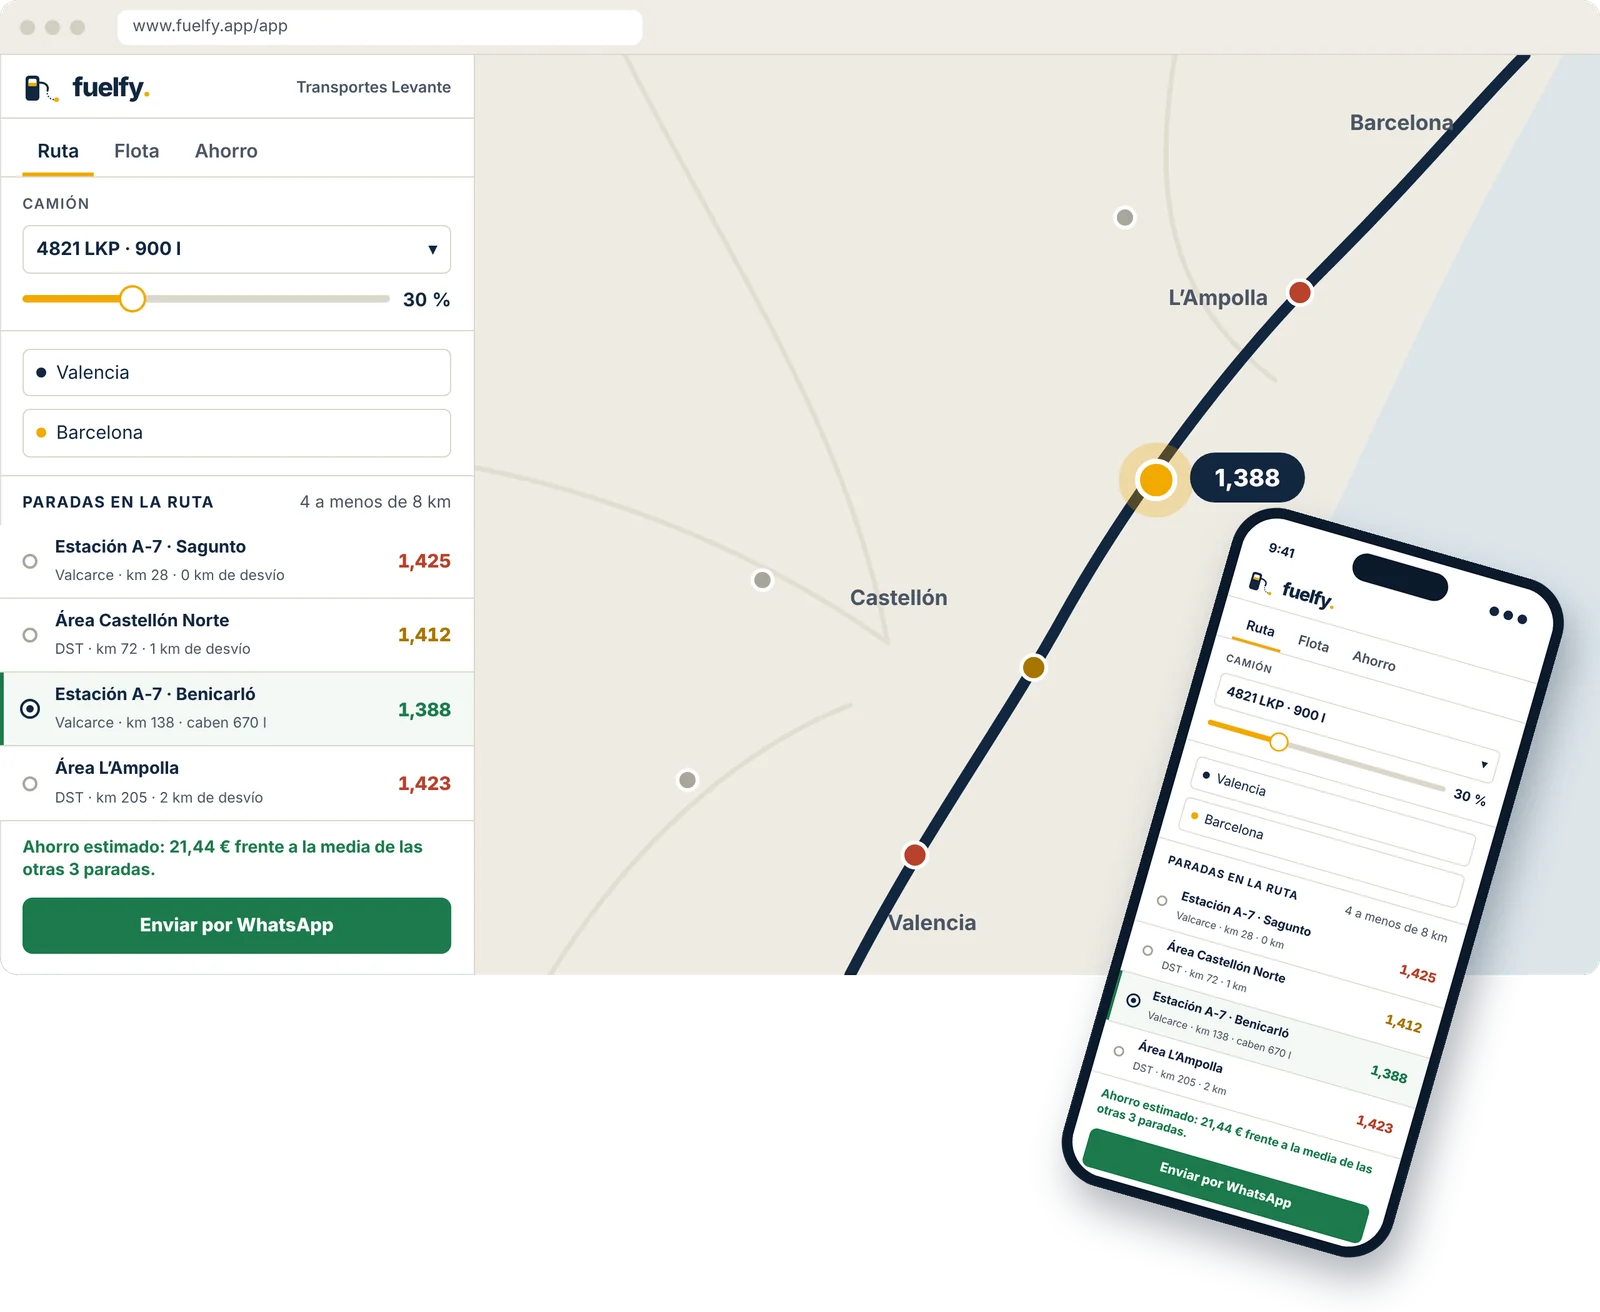
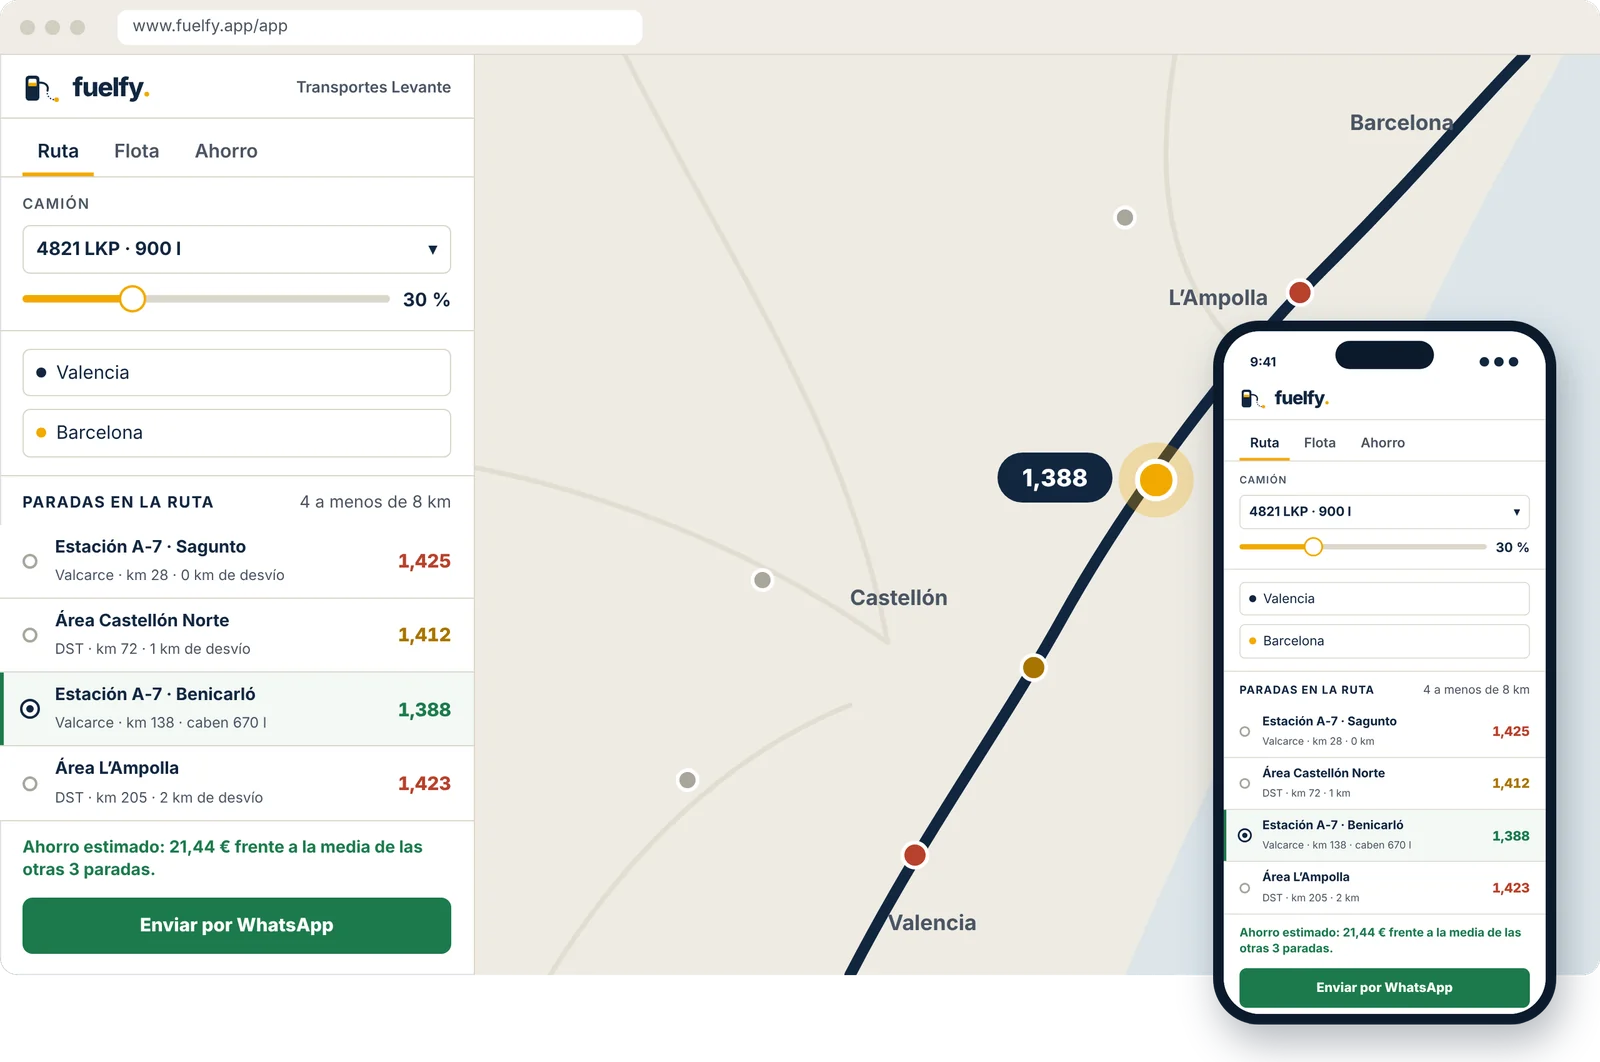
Capturas: precio a la izquierda de la ruta y móvil recto que apenas sobresale
Claude-Session: https://claude.ai/code/session_01NjNeR13o87NmiPvbxe2ikm

diff --git a/docs/index.html b/docs/index.html
@@ -500,7 +500,7 @@ h3 { font-size: 1.45rem; line-height: 1.15; letter-spacing: -.02em; }
         <div class="aparece"><h3>Tus estaciones, a tu manera</h3><p>Desmarca las que no quieras usar y desaparecen del mapa y de las rutas de toda tu empresa.</p>
           <button class="captura" type="button" data-visor aria-label="Ampliar captura del panel de estaciones"><img src="imagenes/web/captura-estaciones.webp" alt="Panel de estaciones de Fuelfy sobre el mapa, con estaciones marcadas y desmarcadas por tarjeta" width="1600" height="975" loading="lazy"></button></div>
         <div class="aparece"><h3>En el ordenador y en el móvil</h3><p>Funciona en el navegador, sin instalar nada. En el móvil puedes añadirla a la pantalla de inicio.</p>
-          <button class="captura sin-marco" type="button" data-visor aria-label="Ampliar captura: la misma ruta en el ordenador y en el móvil"><img src="imagenes/web/captura-escritorio-movil.webp" alt="La misma ruta en Fuelfy en el ordenador y en el móvil" width="1600" height="1312" loading="lazy"></button></div>
+          <button class="captura sin-marco" type="button" data-visor aria-label="Ampliar captura: la misma ruta en el ordenador y en el móvil"><img src="imagenes/web/captura-escritorio-movil.webp" alt="La misma ruta en Fuelfy en el ordenador y en el móvil" width="1600" height="1062" loading="lazy"></button></div>
       </div>
     </div>
   </section>
